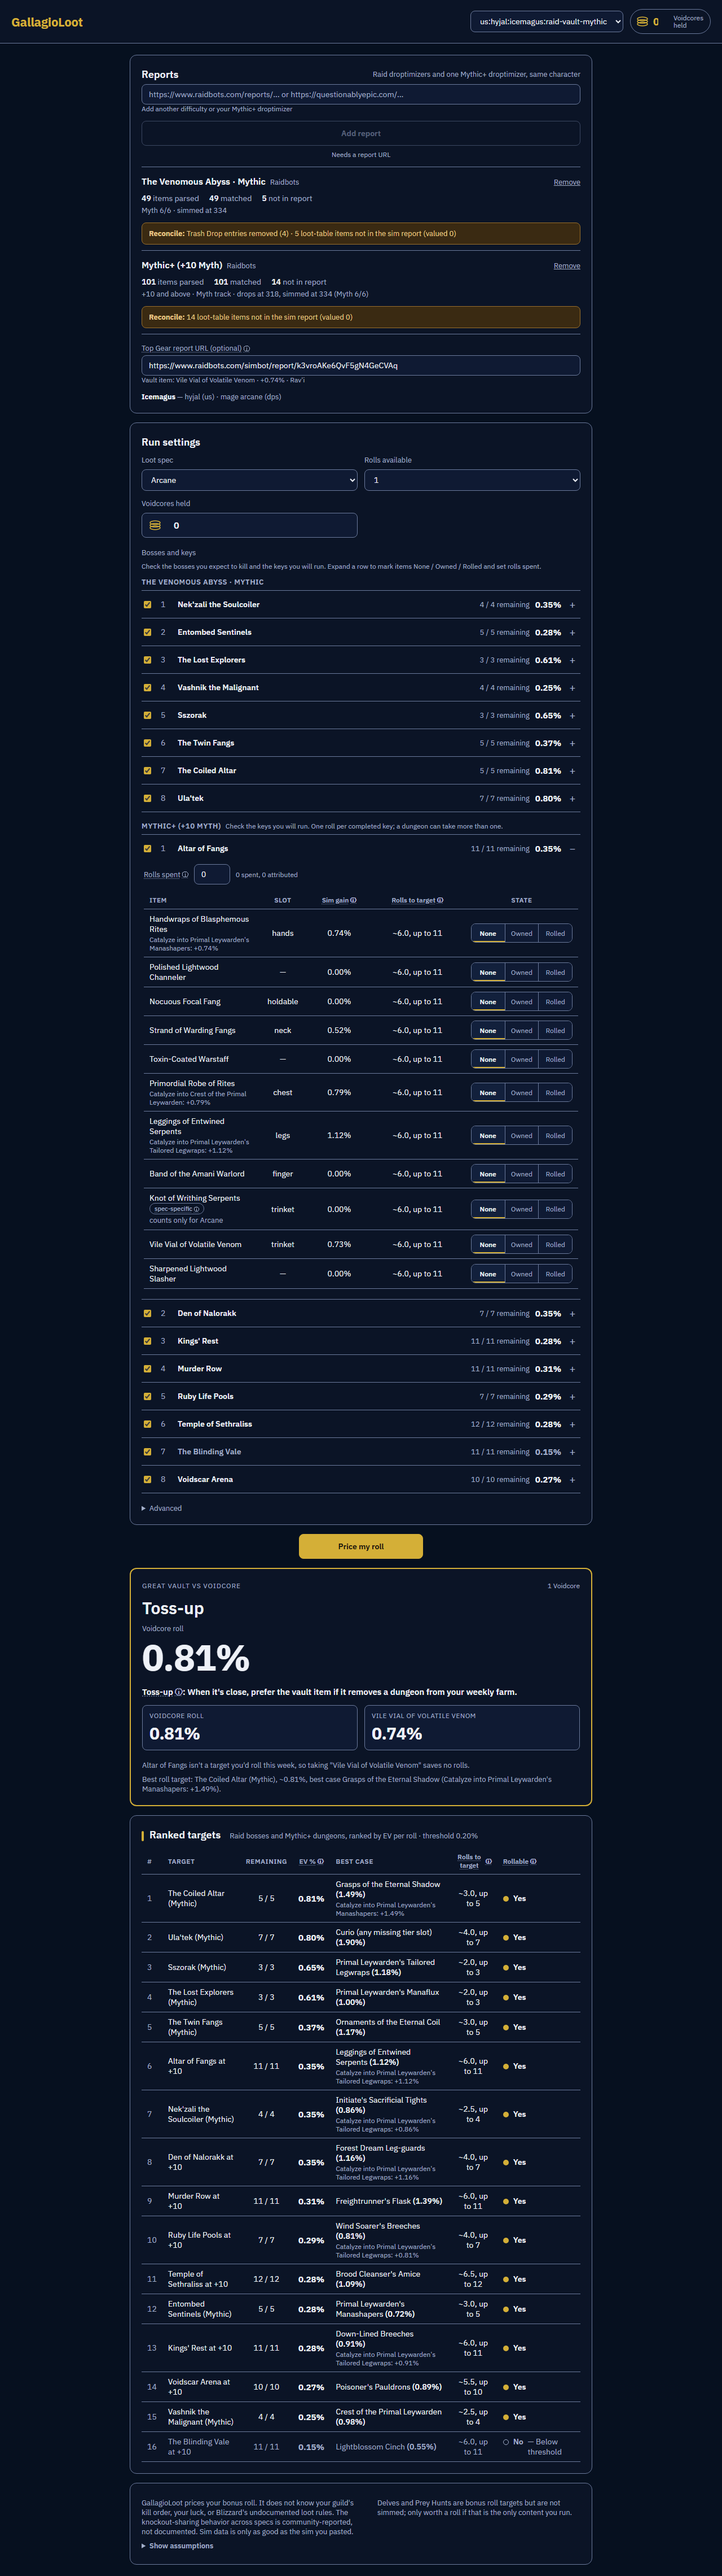
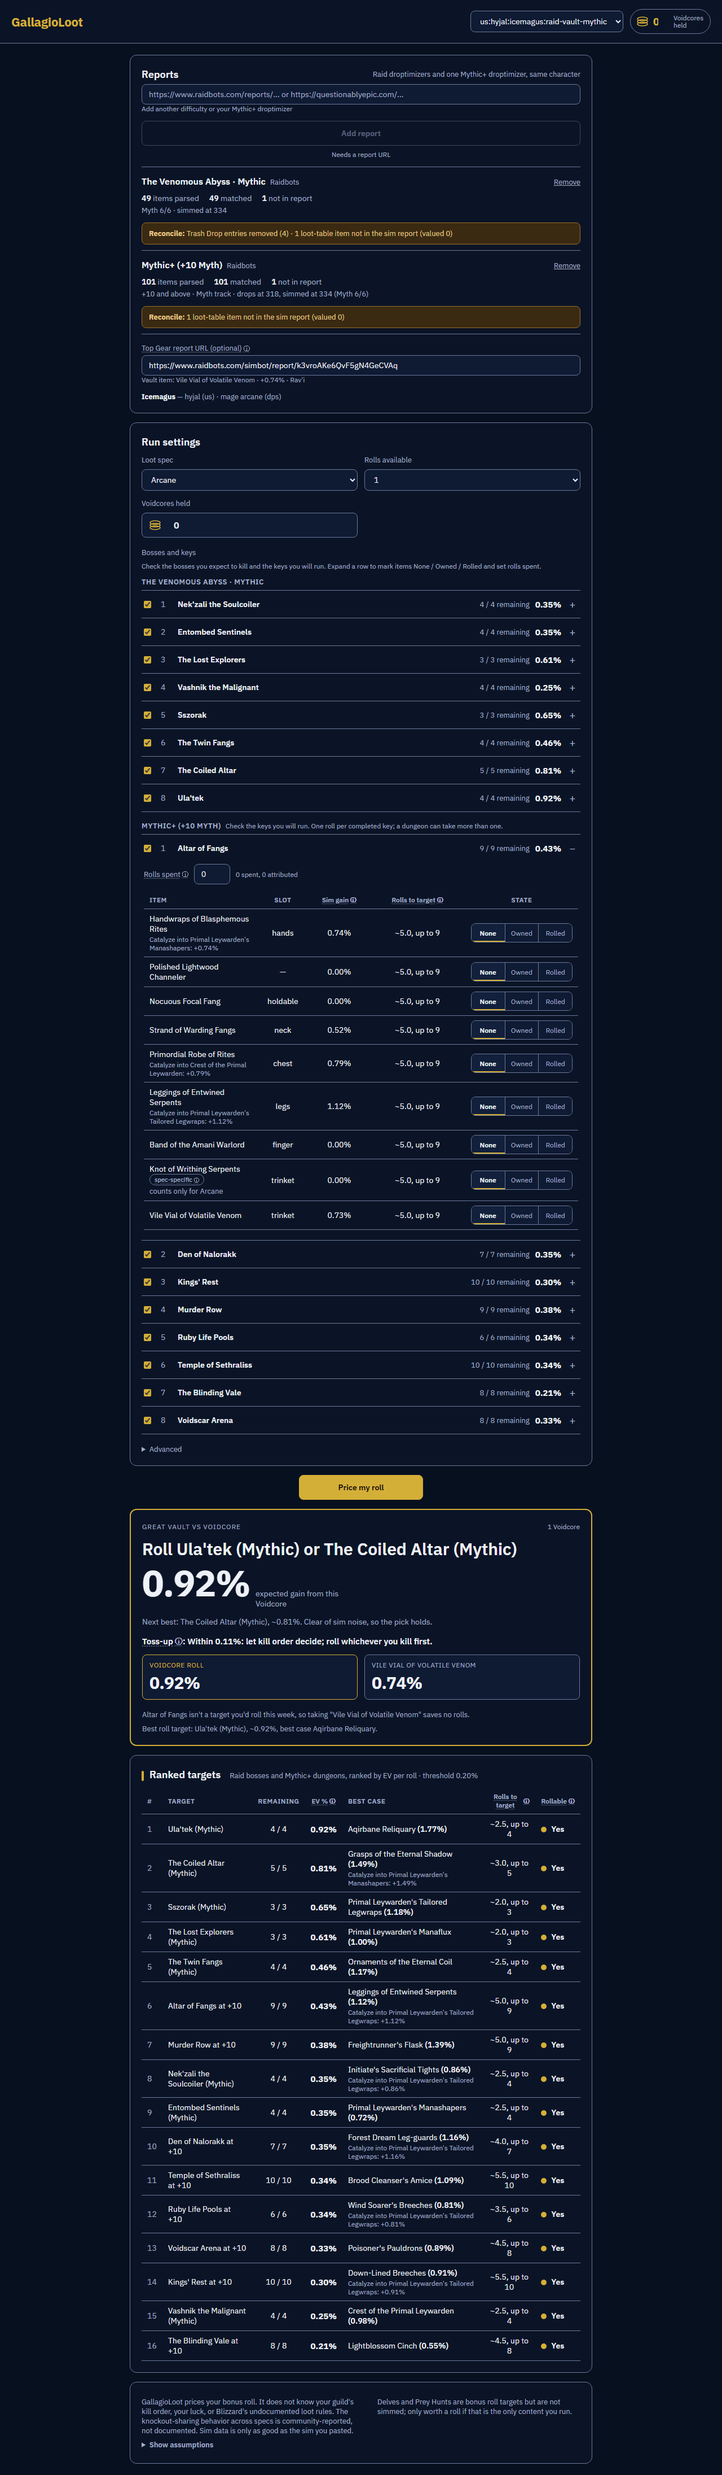
Live check + design fixtures/shots: Ula'tek 4/4, no Curio row, curio note, new EVs and verdicts

diff --git a/DEPLOY.md b/DEPLOY.md
@@ -39,7 +39,7 @@ npx wrangler deploy        # uses web/wrangler.toml, uploads dist/
 
 ## Smoke test
 
-**Run `npm run check:live` (in `web/`) after every deploy** — it drives the live site at 1280px and 390px with a real raid droptimizer + Mythic+ droptimizer + Top Gear report and asserts (PASS/FAIL per check, non-zero exit on any failure) the parse lines, the M+ section, target EVs, the 1-roll toss-up card and its no-saved-rolls explanation, the 2-roll Voidcore verdict, the spec-specific pill, and layout (screenshots/JSON land gitignored in `web/design/live-single-page-*`).
+**Run `npm run check:live` (in `web/`) after every deploy** — it drives the live site at 1280px and 390px with a real raid droptimizer + Mythic+ droptimizer + Top Gear report and asserts (PASS/FAIL per check, non-zero exit on any failure) the parse lines, the M+ section, target EVs, Ula'tek's 4-item pool (4 / 4, no Curio row, the curio note), the 1-roll kill-order card (Ula'tek or The Coiled Altar, Voidcore 0.92% vs the Vial 0.74%) and its no-saved-rolls explanation, the 2-roll Voidcore verdict (1.73%), the spec-specific pill, and layout (screenshots/JSON land gitignored in `web/design/live-single-page-*`).
 
 ```bash
 cd web
